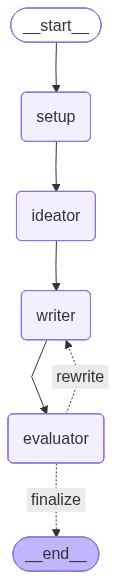
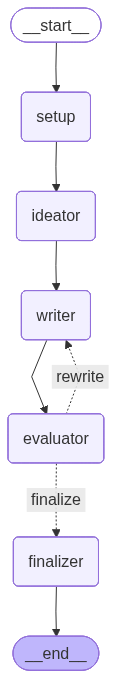
bbdd

Changed region(s): [[0.0513, 0.0, 0.8974, 0.9948], [0.1282, 0.2798, 0.1538, 0.4352]]

diff --git a/src/story_factory/graph.py b/src/story_factory/graph.py
@@ -1,31 +1,53 @@
+from langgraph.checkpoint.sqlite import SqliteSaver # <-- Nuevo import
 from langgraph.graph import StateGraph, END
-from story_factory.nodes.finalizer import finalizer_node # <-- Importar
+from story_factory.state import StoryState
+from story_factory.nodes.setup import setup_node
+from story_factory.nodes.ideator import idea_generator_node
+from story_factory.nodes.writer import writer_node
+from story_factory.nodes.evaluator import evaluator_node
+from story_factory.nodes.finalizer import finalizer_node  # Importamos el Hito 5
+
+def decide_to_finish(state: StoryState):
+    """Lógica de control para el bucle de calidad"""
+    if state["evaluation_score"] >= 8 or state["revision_count"] >= 3:
+        return "finalize"
+    return "rewrite"
 
 def create_story_graph():
+    # Creamos la base de datos de checkpoints
+    # En producción usarías una conexión persistente, aquí usamos una en memoria o archivo
+    memory = SqliteSaver.from_conn_string(":memory:") # O "checkpoints.sqlite"
+    # 1. Constructor
     workflow = StateGraph(StoryState)
 
-    # 1. Nodos
+    # 2. Registro de Nodos
     workflow.add_node("setup", setup_node)
     workflow.add_node("ideator", idea_generator_node)
     workflow.add_node("writer", writer_node)
     workflow.add_node("evaluator", evaluator_node)
-    workflow.add_node("finalizer", finalizer_node) # <-- Añadir
+    workflow.add_node("finalizer", finalizer_node)
 
-    # 2. Aristas Fijas
+    # 3. Aristas (Edges)
     workflow.set_entry_point("setup")
     workflow.add_edge("setup", "ideator")
     workflow.add_edge("ideator", "writer")
     workflow.add_edge("writer", "evaluator")
-    workflow.add_edge("finalizer", END) # El finalizador cierra el proceso
-
-    # 3. Arista Condicional (Actualizada)
+    
+    # 4. El Bucle Condicional (Hito 4 + 5)
     workflow.add_conditional_edges(
         "evaluator",
         decide_to_finish,
         {
             "rewrite": "writer",
-            "finalize": "finalizer" # <-- Ahora va al finalizador antes de terminar
+            "finalize": "finalizer"
         }
     )
+    
+    workflow.add_edge("finalizer", END)
 
-    return workflow.compile()
+    # 5. Compilación
+    # 🔥 IMPORTANTE: Al compilar, añadimos el checkpointer
+    return workflow.compile(checkpointer=memory)
+
+# 🔥 ESTA ES LA LÍNEA QUE TE FALTA (fuera de la función) 🔥
+app = create_story_graph()

diff --git a/src/story_factory/nodes/setup.py b/src/story_factory/nodes/setup.py
@@ -1,13 +1,13 @@
 from story_factory.state import StoryState
+from story_factory.utils import get_past_stories_titles
 
 def setup_node(state: StoryState):
-    """Inicializa contadores y limpia entradas si es necesario."""
-    print("--- [FASE 0 & 1]: CONFIGURANDO ENTORNO ---")
+    print("--- [FASE 0]: CONSULTANDO MEMORIA DE LARGO PLAZO ---")
     
-    # Aseguramos valores por defecto si no vienen en el input inicial
+    # Cargamos títulos previos para que el Ideator los conozca
+    past_titles = get_past_stories_titles()
+    
     return {
         "revision_count": 0,
-        "past_story_references": state.get("past_story_references", []),
-        "story_draft": None,
-        "idea": None
+        "past_story_references": past_titles
     }

diff --git a/main.py b/main.py
@@ -18,7 +18,12 @@ def run_test():
 
     # 2. Ejecutamos el grafo
     # Al usar thread_id (opcional aquí) simulamos una sesión real
-    final_state = app.invoke(inputs)
+    # CONFIGURACIÓN DE PERSISTENCIA
+    # El thread_id permite recuperar el maletín si el proceso se detiene
+    config = {"configurable": {"thread_id": "usuario_123_cuento_001"}}
+
+    # Ejecutamos el grafo pasando la configuración
+    final_state = app.invoke(inputs, config=config)
 
     # 3. Inspeccionamos los resultados
     print("\n--- [RESULTADO DEL TEST] ---")

diff --git a/src/story_factory/utils.py b/src/story_factory/utils.py
@@ -11,3 +11,11 @@ def get_model(temperature=0.7):
         temperature=temperature,
         api_key=os.getenv("OPENAI_API_KEY")
     )
+
+
+# src/story_factory/utils.py
+
+def get_past_stories_titles():
+    """Simula una consulta a una BBDD real de cuentos guardados."""
+    # En un caso real, aquí harías un SELECT título FROM cuentos
+    return ["El gato Chispa y el microondas", "Las crónicas de la tostadora"]
